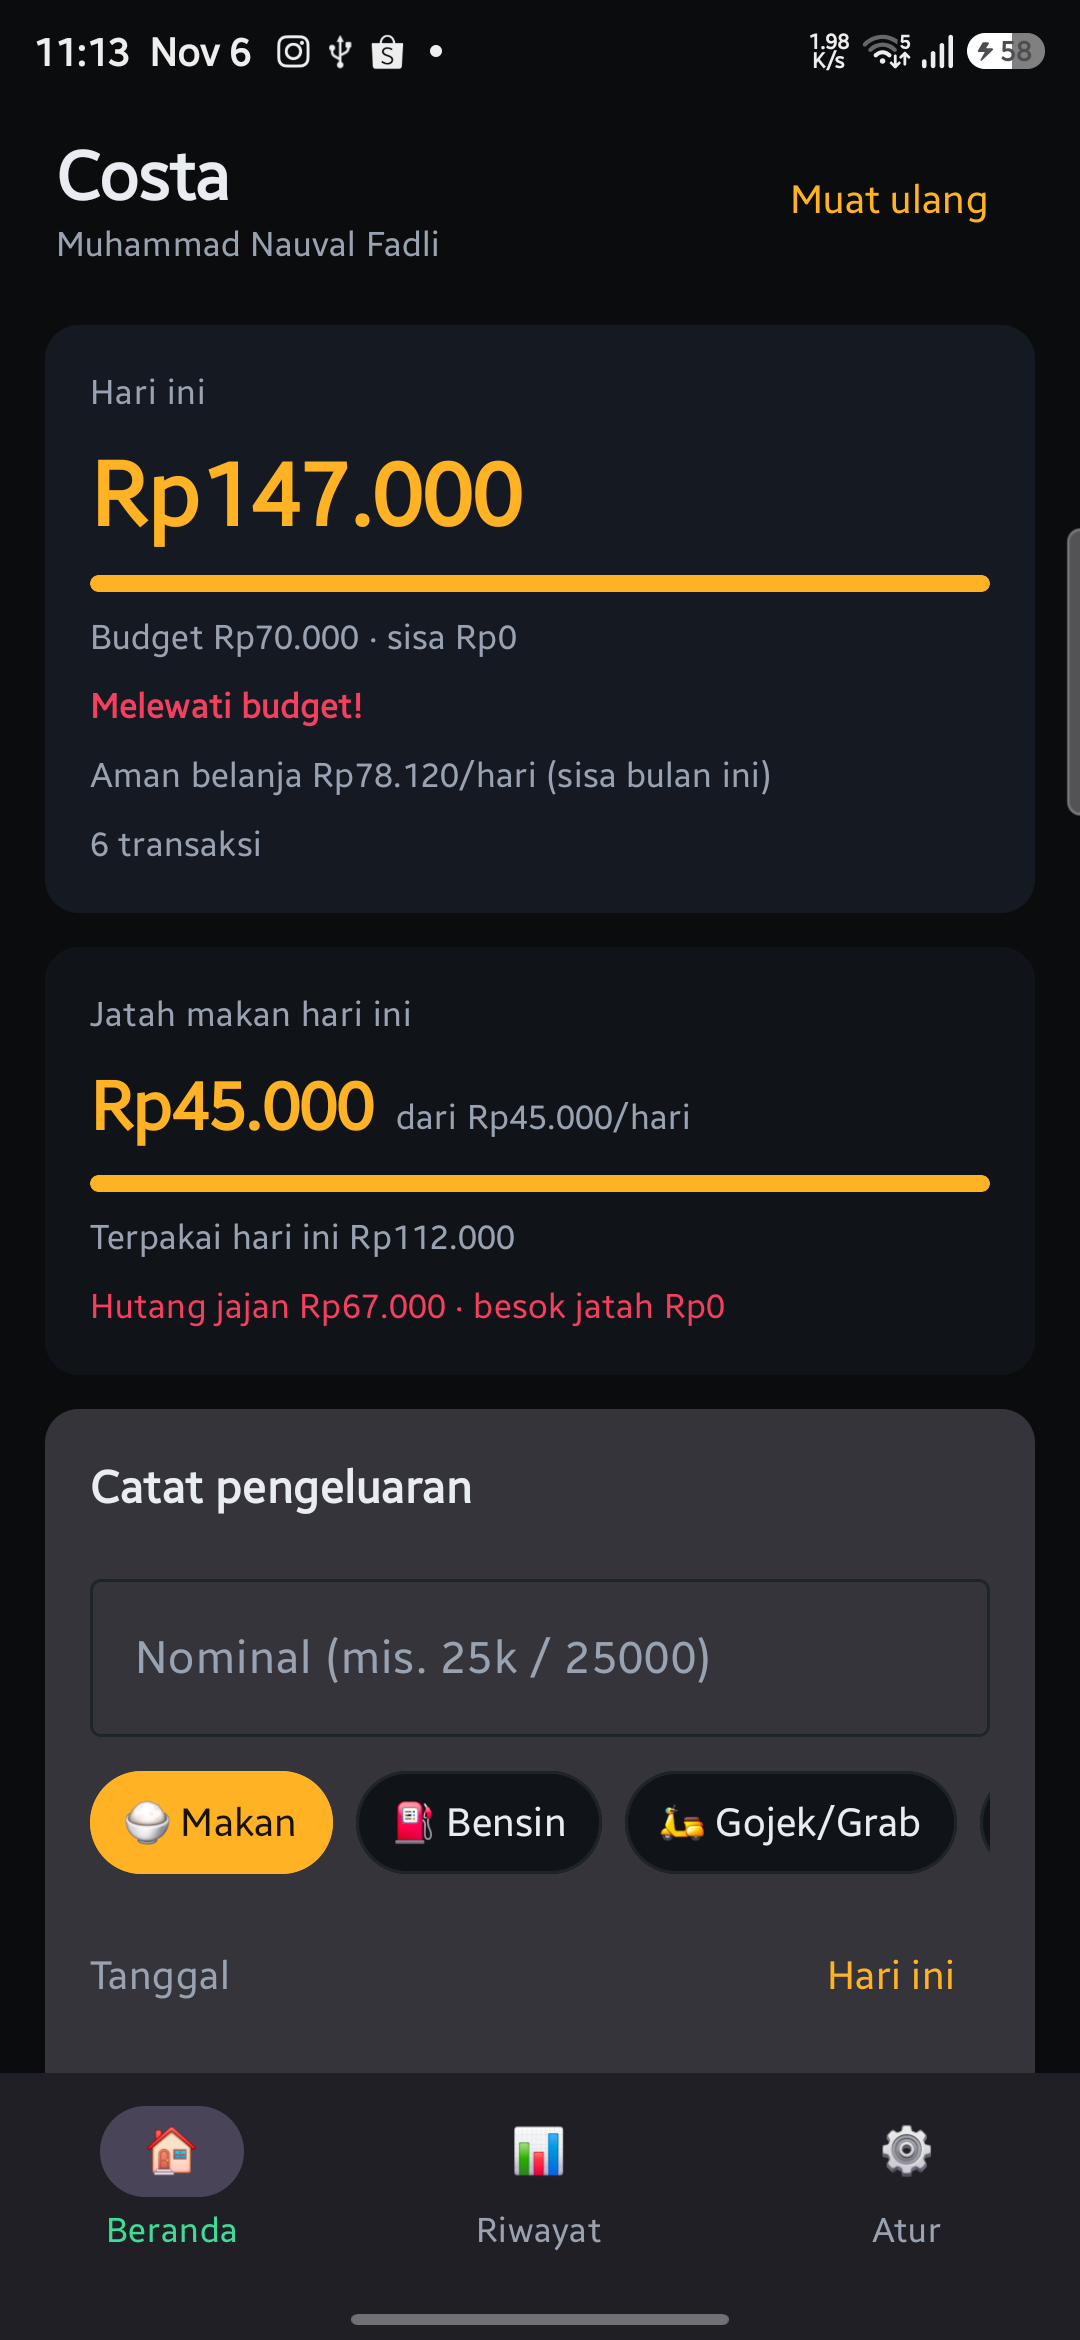
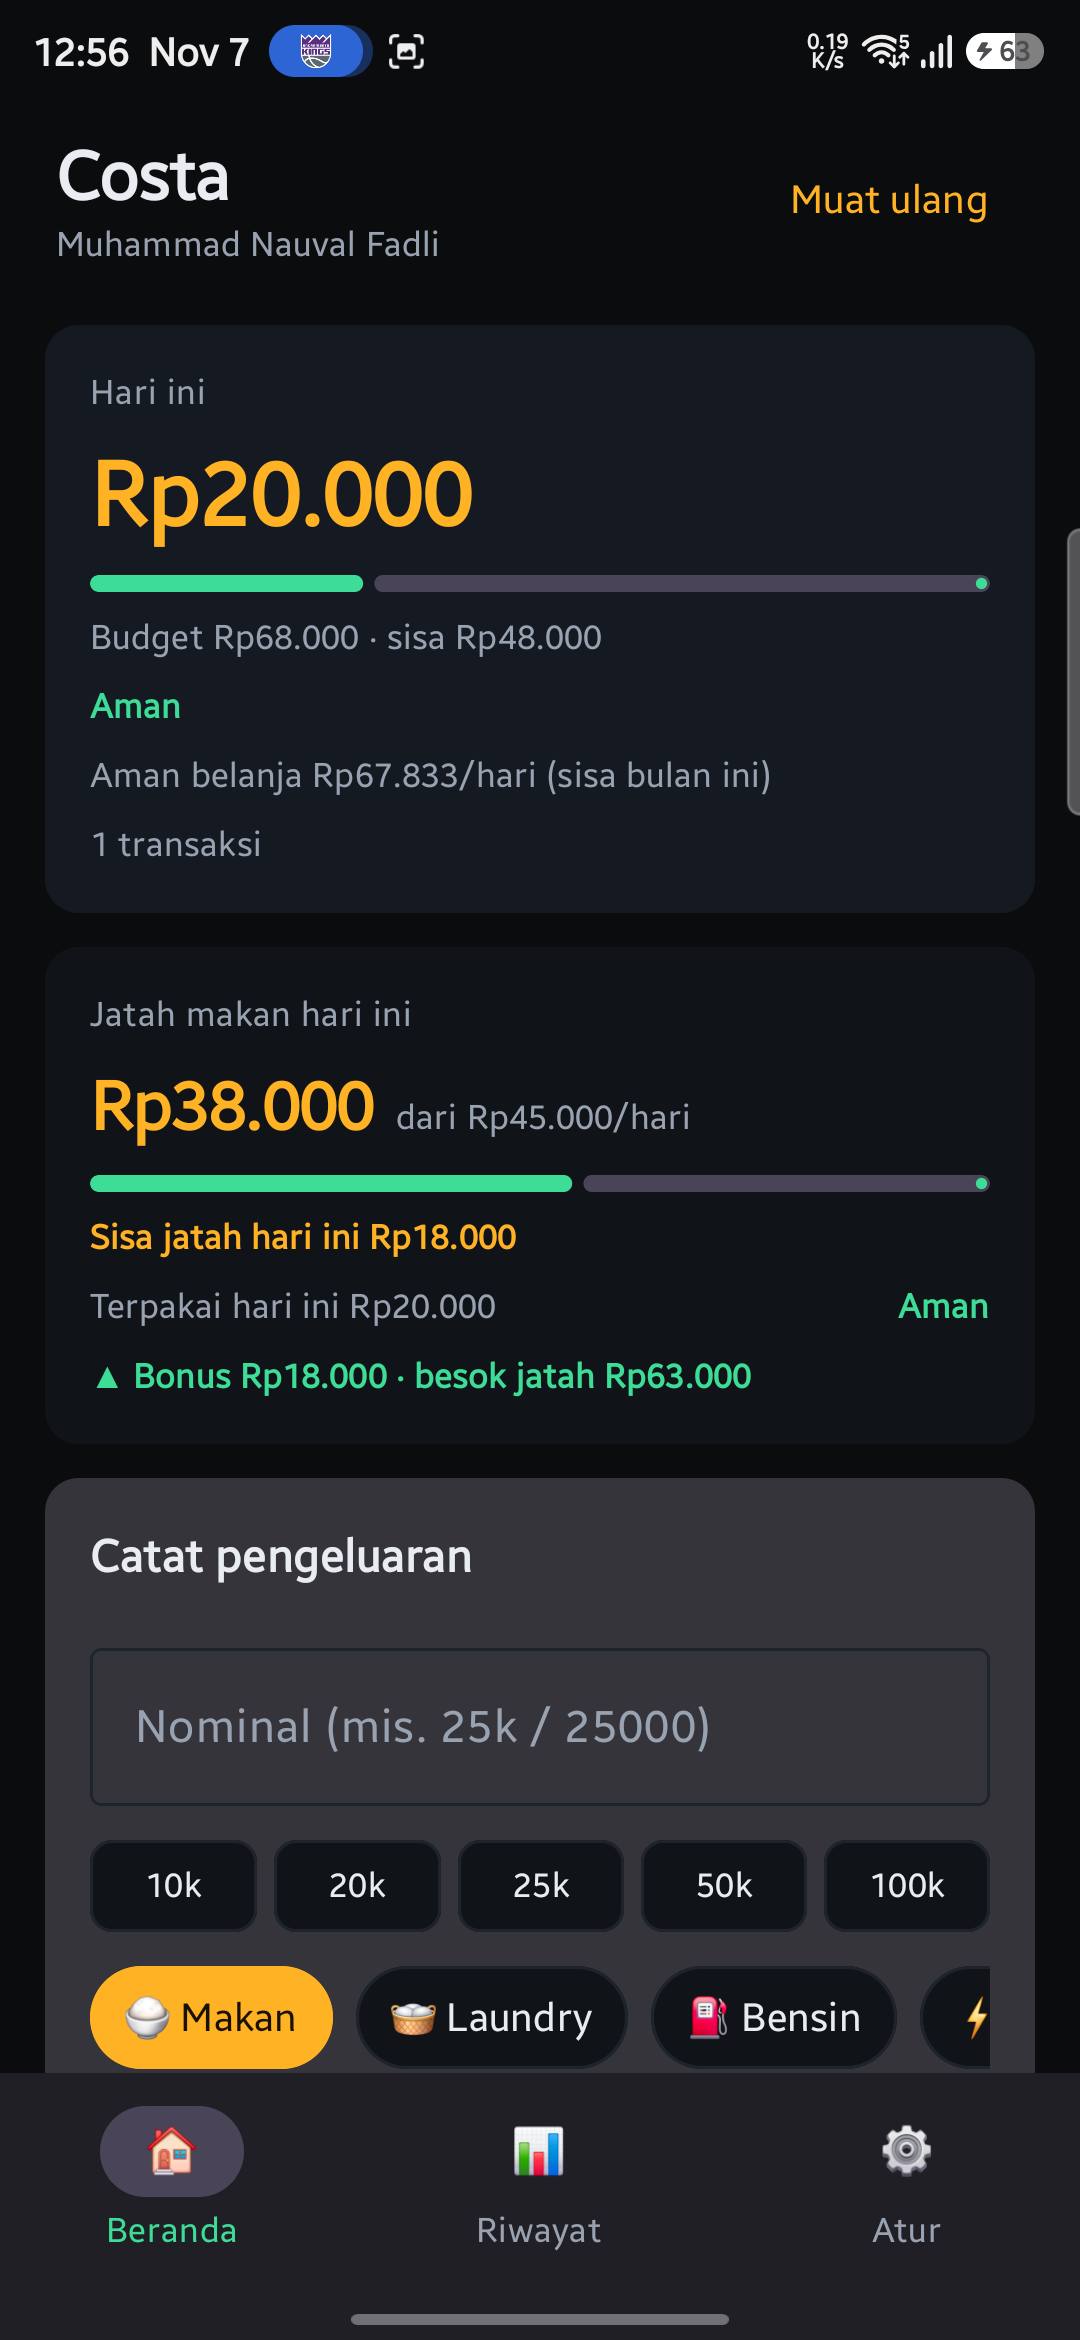
docs: refresh Costa screenshots and feature list

diff --git a/README.md b/README.md
@@ -10,14 +10,15 @@ A personal expense tracker made for students: a **Laravel API** and a **native A
 
 ## Features
 
-- **Quick add** expenses with amount shortcuts (`25k`, `25000`), category chips, notes, and backdated entries.
-- **History & statistics** — daily/weekly/monthly summaries, category **donut chart**, and per-category totals.
-- **Budgets** — daily, weekly, monthly, plus a **rolling daily food allowance** where overspending becomes debt and savings become bonus for the next day.
+- **Quick add** expenses with smart amount parsing (`25k`, `12.5k`, `25.000`), one-tap amount chips (10k / 20k / 25k / 50k / 100k), category chips, notes, and backdated entries.
+- **History & statistics** — daily/weekly/monthly summaries, category **donut chart**, per-category totals, and paginated history with a "load more" control.
+- **Budgets** — daily, weekly, monthly, plus a **rolling daily food allowance** where overspending becomes debt and savings become bonus for the next day, with today's remaining allowance shown on the home card.
 - **Multi-user** — each account has isolated expenses, settings, and custom categories; registration is protected by an invite code.
 - **Category management** — create, edit, reorder (drag & drop), hide built-in categories or delete your own.
 - **Exports** — monthly mutation as **CSV** or **PDF**, saved directly to the phone's Downloads folder.
 - **Notifications** — evening reminder when nothing is logged, budget warnings (70/80/100%), weekly recap, and a monthly budget reset reminder.
-- **In-app updates** — the app checks the server for a newer APK and installs it without leaving the app.
+- **In-app updates** — the app checks the server for a newer APK, shows a changelog dialog, and installs the update without leaving the app.
+- **Haptic feedback** — curated ticks, confirmations and error haptics for primary actions, with a toggle in Settings.
 - **Dark UI** with a graphite + amber theme, pull-to-refresh, and Android 15+ edge-to-edge support.
 
 ## Screenshots
